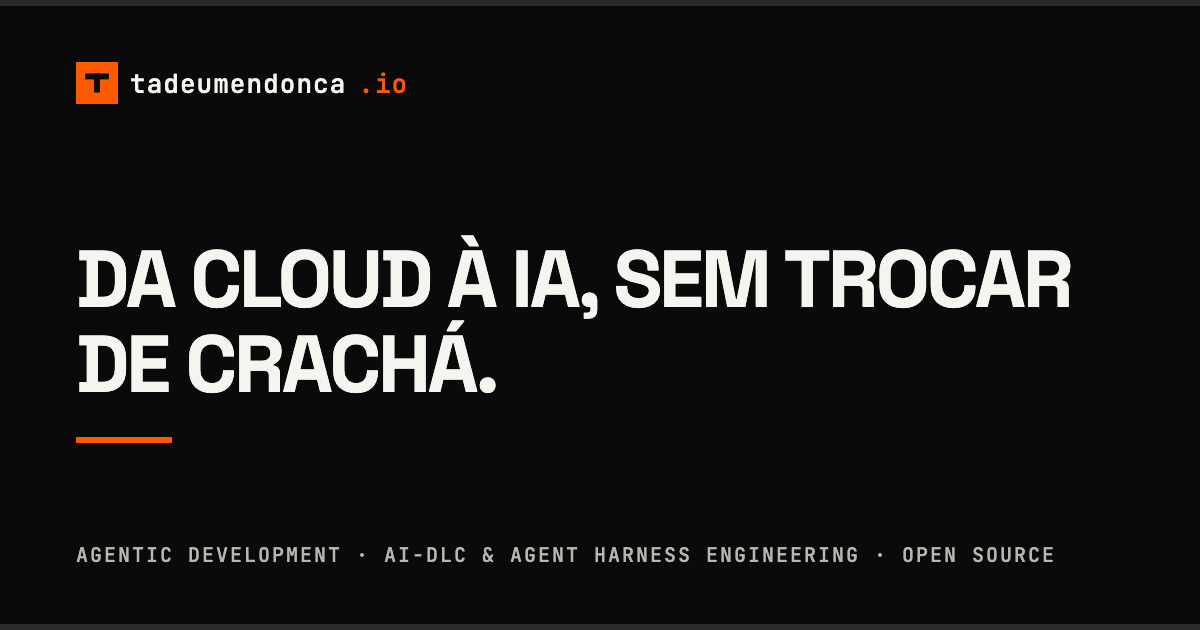
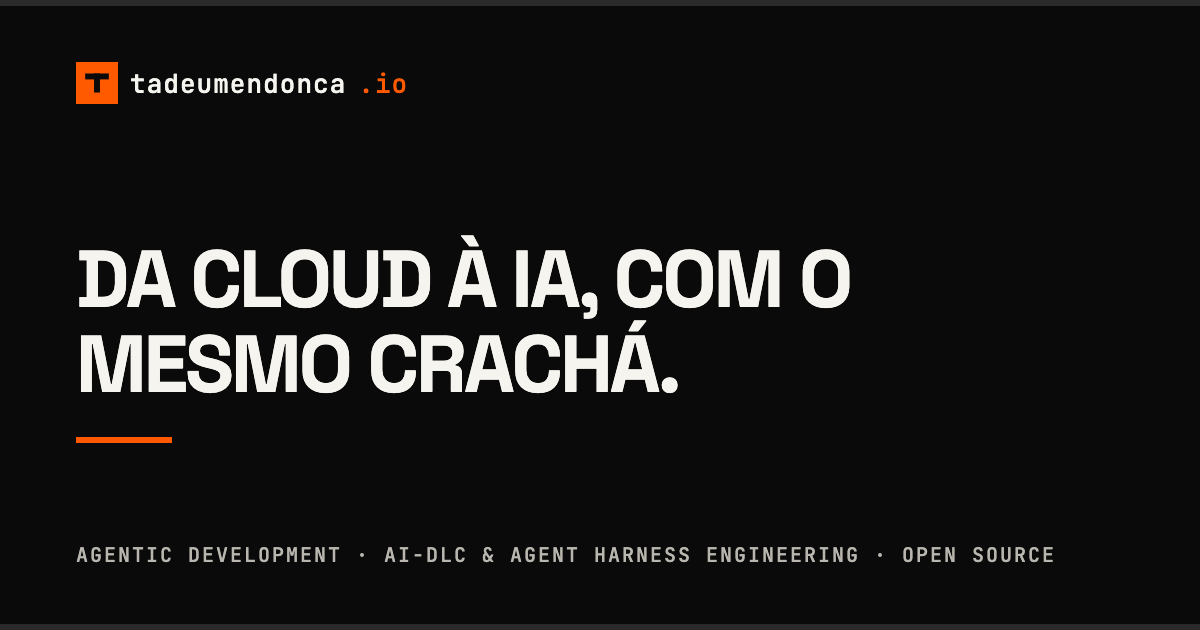
content(blog): the PT title takes the positive construction, and the slug follows
Owner's call, against the copy lens's recommendation. The lens found the two
editions asymmetric — "sem trocar de crachá" DENIES an action while "on the same
badge" STATES a location — and recommended moving the EN toward the PT. He chose
the opposite direction: "mesmo cracha eh melhor do que sem trocar o cracha", then
refined the preposition to "com". The two editions are now symmetric.

    pt  Da cloud à IA, com o mesmo crachá.   /pt/blog/da-cloud-a-ia-com-o-mesmo-cracha
    en  From cloud to AI, on the same badge. (unchanged)

"com o mesmo crachá" over "no mesmo crachá": "no" places the movement ON the badge,
which is the same slightly-off reading the lens named in the EN; "com o" makes the
badge what he CARRIED THROUGH the movement, which is the figure's actual meaning.

The article "o" was supplied — his words were "com mesmo cracha", and bare "com
mesmo crachá" is not idiomatic pt-BR. Flagged in the PR body so he can strip one
word rather than find it changed silently.

WHAT THIS COSTS, priced rather than discovered later: the denial was what refused
the departure reading before the reader reached the body. A five-year-mark career
article is read as a resignation announcement by default, and "sem trocar" refused
that in the title itself. "Com o mesmo crachá" asserts he is still there rather
than denying he left — a weaker refusal. The body and the excerpt still deny it
twice. He was shown this and chose anyway.
[…]

Changed region(s): [[0.0617, 0.5127, 0.5858, 0.6333], [0.4933, 0.3921, 0.8942, 0.5127]]

diff --git a/apps/fed/e2e/per-locale.spec.ts b/apps/fed/e2e/per-locale.spec.ts
@@ -584,7 +584,7 @@ test.describe('sitemap advertises every per-locale URL', () => {
   // same commit, and its two URLs move to WITHDRAWN below rather than simply disappearing from the file.
   const ARTICLES = [
     { pt: `${SITE}/pt/blog/meu-compromisso`, en: `${SITE}/en/blog/my-commitment` },
-    { pt: `${SITE}/pt/blog/da-cloud-a-ia-sem-trocar-de-cracha`, en: `${SITE}/en/blog/from-cloud-to-ai-same-badge` },
+    { pt: `${SITE}/pt/blog/da-cloud-a-ia-com-o-mesmo-cracha`, en: `${SITE}/en/blog/from-cloud-to-ai-same-badge` },
   ];
   // Slugs that were published and have been CORRECTED (ADR-0010's back-compat contract). Unlike WITHDRAWN
   // below, the article is still live — at a different address — so these must stay reachable via redirect

diff --git a/apps/fed/e2e/routes.spec.ts b/apps/fed/e2e/routes.spec.ts
@@ -482,7 +482,7 @@ test.describe('routes', () => {
   // notice instead. So "the heading exists" is what separates a working redirect from one that lands on
   // the not-found page with the right URL in the bar.
   const SUPERSEDED_ARTICLE_SLUGS = [
-    { locale: 'pt', from: 'o-problema-parou-de-variar', to: 'da-cloud-a-ia-sem-trocar-de-cracha' },
+    { locale: 'pt', from: 'o-problema-parou-de-variar', to: 'da-cloud-a-ia-com-o-mesmo-cracha' },
     { locale: 'en', from: 'the-problem-stopped-changing', to: 'from-cloud-to-ai-same-badge' },
   ];
 

diff --git a/apps/fed/e2e/seo.spec.ts b/apps/fed/e2e/seo.spec.ts
@@ -228,7 +228,7 @@ test.describe('SEO discovery', () => {
     const ARTICLE_PATHS = [
       '/pt/blog/meu-compromisso/',
       '/en/blog/my-commitment/',
-      '/pt/blog/da-cloud-a-ia-sem-trocar-de-cracha/',
+      '/pt/blog/da-cloud-a-ia-com-o-mesmo-cracha/',
       '/en/blog/from-cloud-to-ai-same-badge/',
     ];
 

diff --git a/apps/fed/src/content/blog/the-problem-stopped-changing.pt.md b/apps/fed/src/content/blog/the-problem-stopped-changing.pt.md
@@ -1,6 +1,6 @@
 ---
-title: "Da cloud à IA, sem trocar de crachá."
-slug: da-cloud-a-ia-sem-trocar-de-cracha
+title: "Da cloud à IA, com o mesmo crachá."
+slug: da-cloud-a-ia-com-o-mesmo-cracha
 previousSlugs:
   - o-problema-parou-de-variar
 date: '2026-08-21T12:00:00.000Z'
